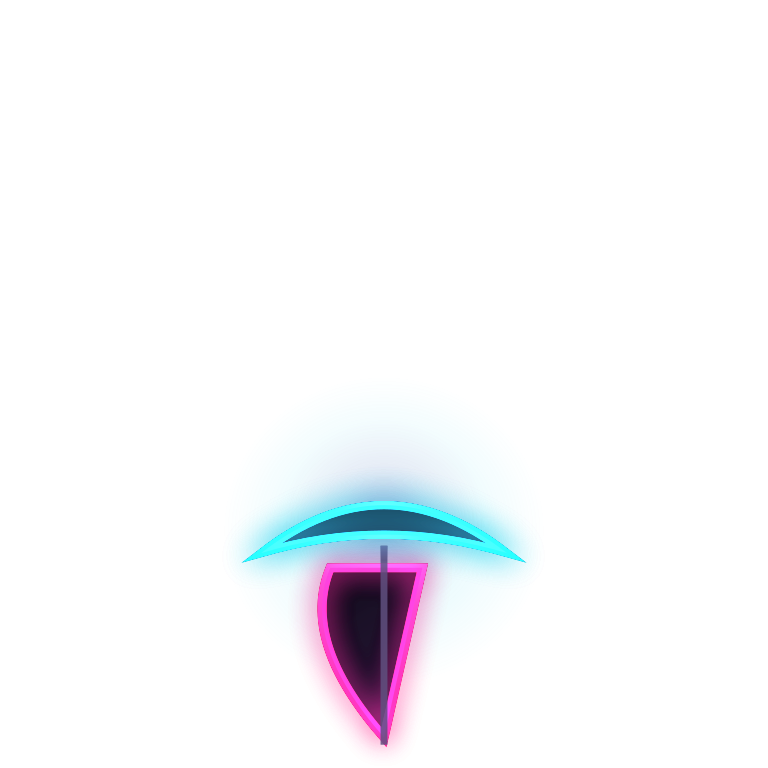
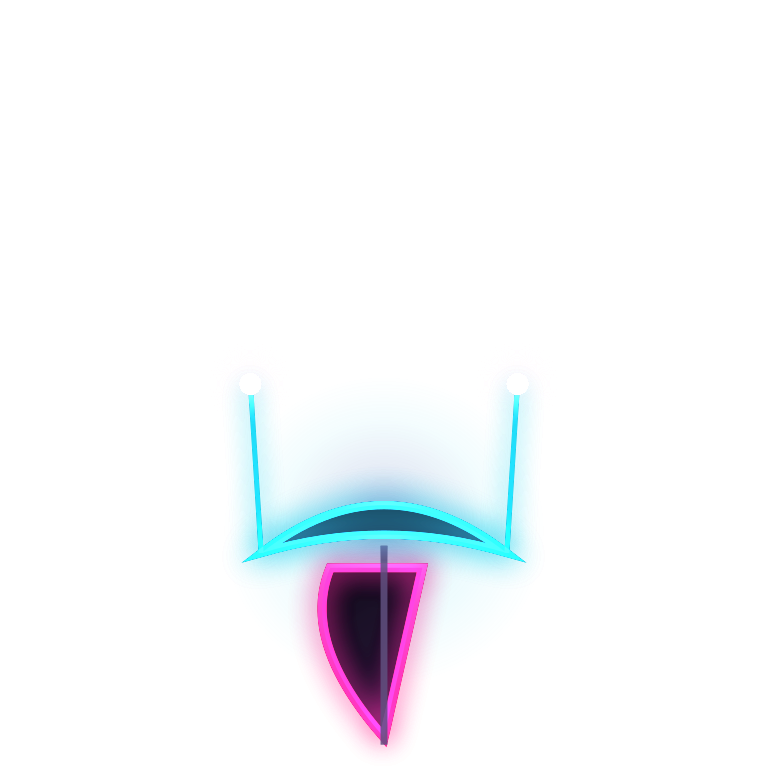
Run mooring lines from each boat to the corners it trades from
A harbour was a boat floating near the coast with nothing tying it to
the two building spots that can actually use it. The Classic boats say
this with painted planks; the Nights boats now say it with lit rope —
two lines out to the corners of the hex side, each ending in a bright
node sitting exactly on the corner.

The positions are derived rather than eyeballed. A port is centred on a
hex side and rotated so that side runs horizontally through the middle
of the boat image, which puts both corners on the image's horizontal
centre line; the hexagon is regular, so each side is 0.5774 hex-widths
long against an image drawn 1.66 hex-widths across. That constant is
tied to the style's size factor, and the generator says so, so the two
cannot drift apart quietly.

Claude-Session: https://claude.ai/code/session_01ScDYQ6yXQR8YPnq1TbD6A9

Changed region(s): [[0.625, 0.5, 0.6875, 0.7188], [0.3125, 0.5, 0.375, 0.7188]]

diff --git a/scripts/generate-dangerous-nights-pack.js b/scripts/generate-dangerous-nights-pack.js
@@ -754,10 +754,56 @@ function drawWater() {
  * The harbour boat: a low black hull with light under the waterline and a
  * dark sail. The sail is left clear — the resource glyph is stamped onto it.
  */
+/**
+ * How far either side of centre the two corners of the hex side fall, as a
+ * fraction of the boat image.
+ *
+ * A port is centred on a hex side and rotated so that side runs horizontally
+ * through the middle of the image — which means both of its corners sit on the
+ * image's horizontal centre line. The hexagon is regular, so each side is
+ * 0.5774 hex-widths long, and the image is drawn `PORT_SIZE_FACTOR` hex-widths
+ * across. Keep that in step with `sizeFactor` for `nights` in styles.ts.
+ */
+const PORT_SIZE_FACTOR = 1.66;
+const HEX_SIDE_OVER_WIDTH = 0.5774;
+const CORNER_OFFSET = HEX_SIDE_OVER_WIDTH / PORT_SIZE_FACTOR / 2;
+
 function drawBoat() {
     const canvas = createCanvas(BOAT, BOAT);
     const ctx = canvas.getContext('2d');
     const unit = BOAT / 100;
+
+    // Mooring lines run from the boat to the two corners of the hex side it is
+    // moored against — the two spots that can actually trade through it. The
+    // Classic boats do this with painted planks; here they are lit rope, with a
+    // bright node on each corner so there is no guessing which two they are.
+    const corners = [
+        { x: BOAT * (0.5 - CORNER_OFFSET), y: BOAT * 0.5 },
+        { x: BOAT * (0.5 + CORNER_OFFSET), y: BOAT * 0.5 },
+    ];
+    // Where the hull ends up once the transform below has been applied.
+    const hullTips = [
+        { x: BOAT * 0.34, y: BOAT * 0.72 },
+        { x: BOAT * 0.66, y: BOAT * 0.72 },
+    ];
+
+    corners.forEach((corner, i) => {
+        glowing(ctx, { color: NEON.cyan, blur: 20, alpha: 0.55 }, () => {
+            ctx.beginPath();
+            ctx.moveTo(hullTips[i].x, hullTips[i].y);
+            ctx.lineTo(corner.x, corner.y);
+            ctx.strokeStyle = rgba(NEON.cyan, 0.45);
+            ctx.lineWidth = 5;
+            ctx.stroke();
+        });
+
+        glowing(ctx, { color: NEON.white, blur: 24, alpha: 0.9 }, () => {
+            ctx.beginPath();
+            ctx.arc(corner.x, corner.y, 11, 0, Math.PI * 2);
+            ctx.fillStyle = rgba(NEON.white, 0.85);
+            ctx.fill();
+        });
+    });
 
     // A port is anchored to a hex side and rotated so that the image's LOWER
     // half is the one facing open water — the upper half ends up behind the
@@ -765,6 +811,7 @@ function drawBoat() {
     // and scaled into that lower half: the mast then points out to sea and no
     // part of it is lost behind the coast. Everything below is authored the
     // right way up in a 0-100 space; this transform does the moving.
+    ctx.save();
     ctx.translate(576, 789);
     ctx.rotate(Math.PI);
     ctx.scale(0.5, 0.48);
@@ -827,6 +874,7 @@ function drawBoat() {
         ctx.stroke();
     });
 
+    ctx.restore();
     return canvas;
 }
 
